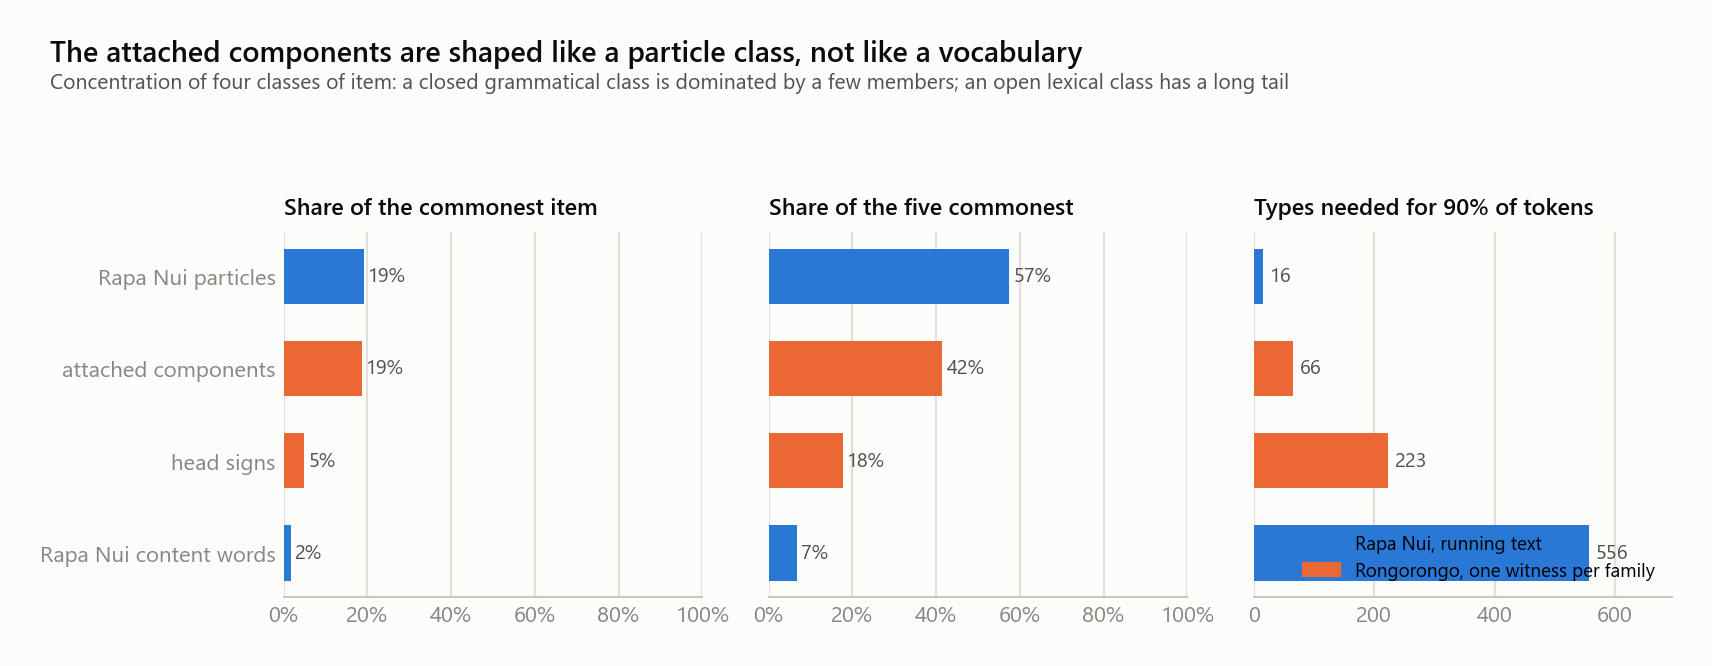
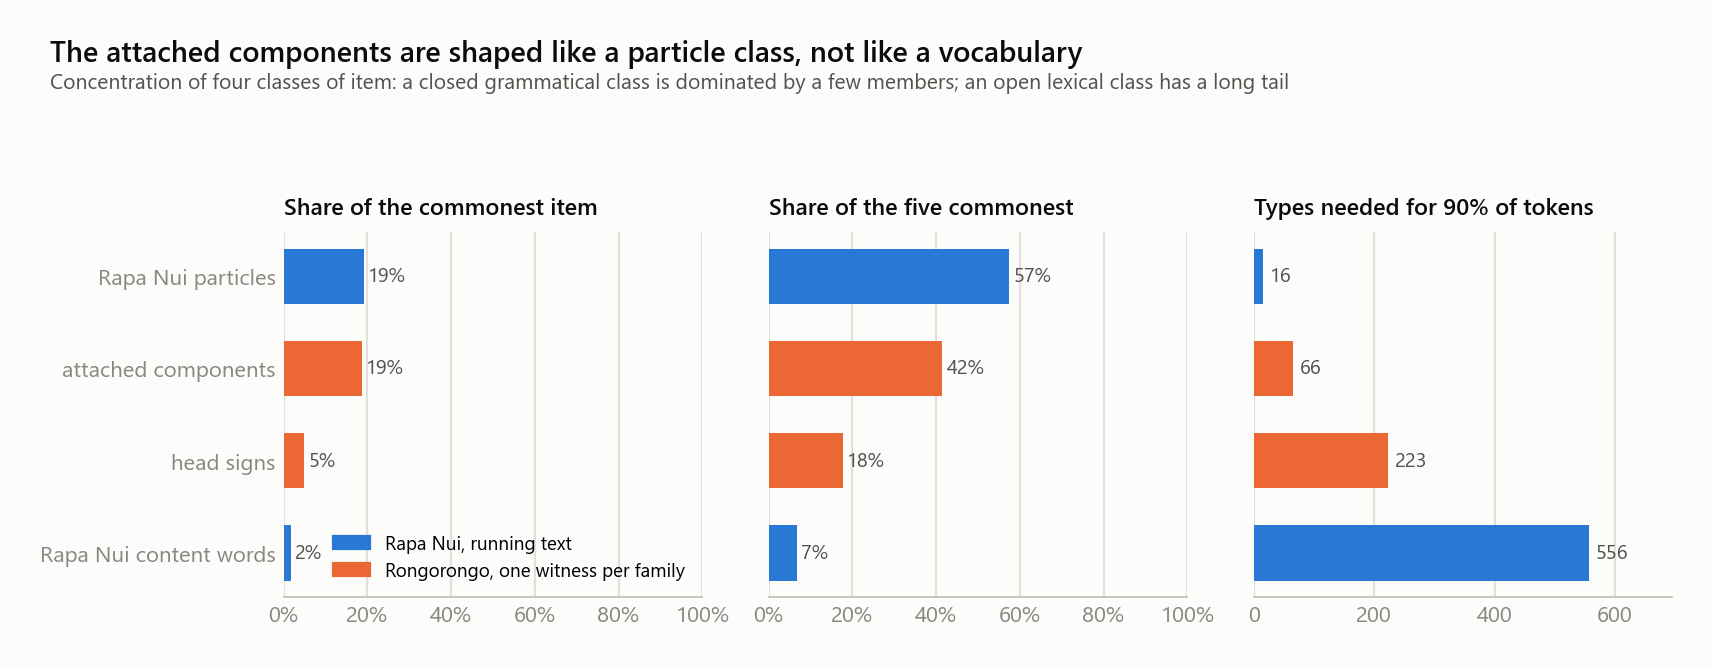
Move the attachments chart legend off the bars

Changed region(s): [[0.1857, 0.7808, 0.4025, 0.8709], [0.743, 0.8108, 0.9597, 0.8709]]

diff --git a/scripts/charts.py b/scripts/charts.py
@@ -448,7 +448,7 @@ if (out / "attachments_profiles.csv").exists():
         ax.set_title(title, pad=8, fontsize=10.5)
         ax.grid(axis="y", visible=False); ax.tick_params(length=0)
     from matplotlib.patches import Patch
-    axes[2].legend(handles=[Patch(color=C[0], label="Rapa Nui, running text"), Patch(color=C[1], label="Rongorongo, one witness per family")],
+    axes[0].legend(handles=[Patch(color=C[0], label="Rapa Nui, running text"), Patch(color=C[1], label="Rongorongo, one witness per family")],
                    loc="lower right", fontsize=8.5)
     fig.suptitle("The attached components are shaped like a particle class, not like a vocabulary", x=0.02, ha="left",
                  fontsize=13, fontweight="semibold", color=INK, y=1.06)
